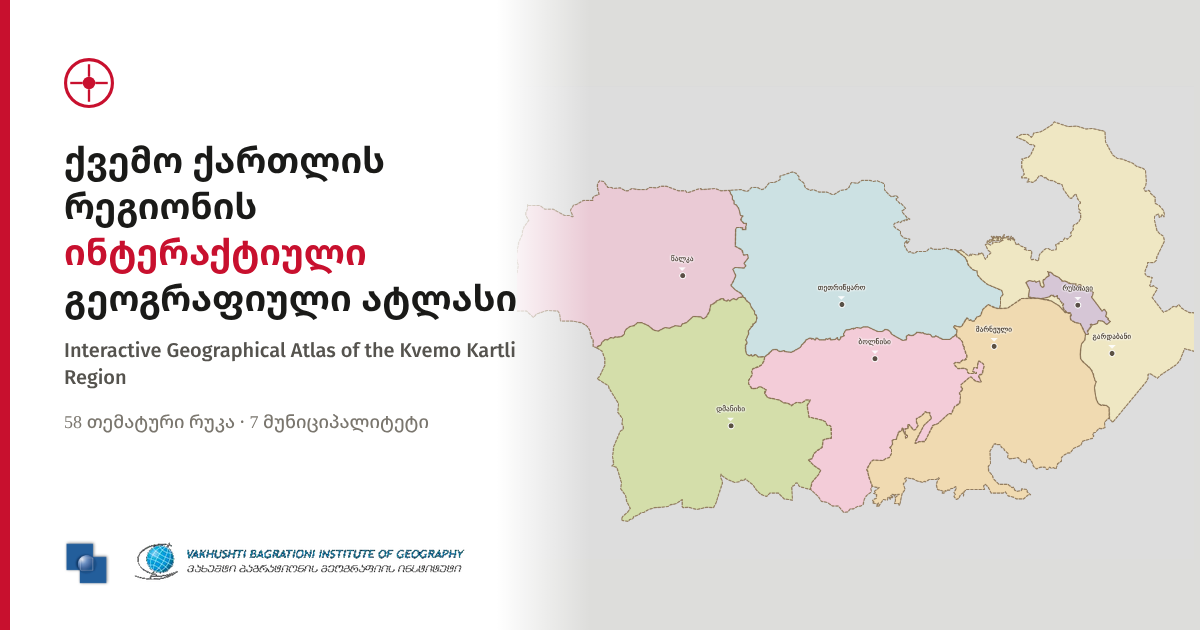
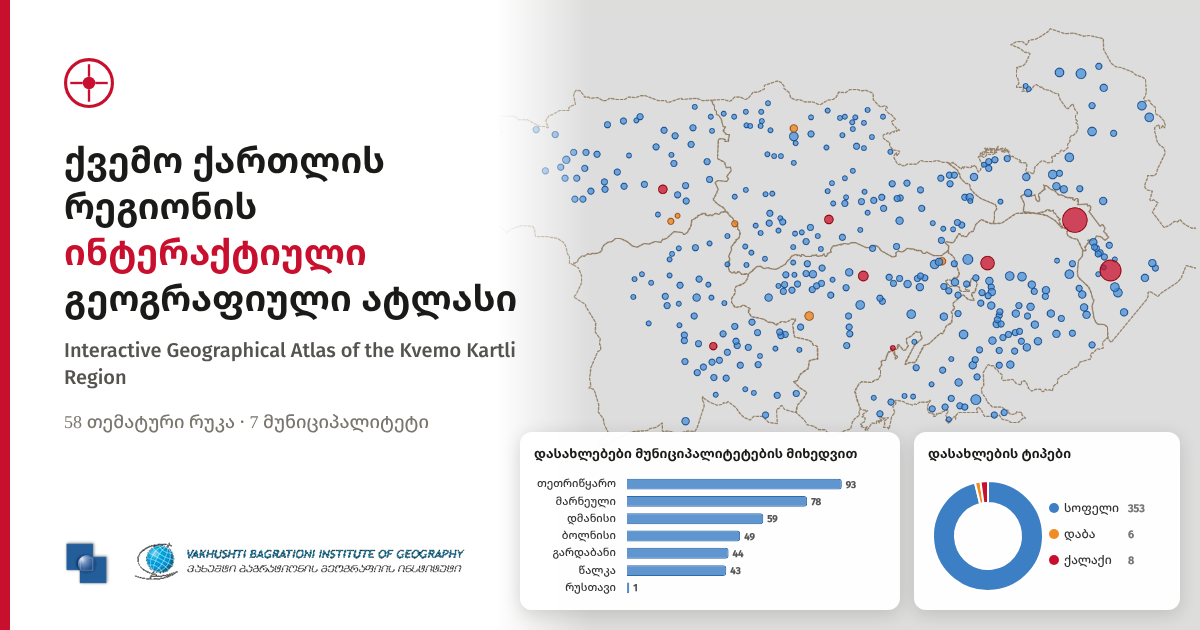
Social preview image: population map with settlement charts
Background is now the population (settlements) map; two small charts:
settlements by municipality and settlement types (villages, towns,
cities), from data/settlements.geojson.

Claude-Session: https://claude.ai/code/session_018LwEbQxNiVLn4ERf6CMPU8

diff --git a/index.html b/index.html
@@ -19,7 +19,7 @@
   <meta property="og:image" content="https://romakumla.github.io/kvemo-kartli-atlas/files/og-image.png" />
   <meta property="og:image:width" content="1200" />
   <meta property="og:image:height" content="630" />
-  <meta property="og:image:alt" content="ქვემო ქართლის მუნიციპალიტეტების რუკა და ატლასის სათაური" />
+  <meta property="og:image:alt" content="ქვემო ქართლის დასახლებების რუკა, დიაგრამები და ატლასის სათაური" />
   <meta property="og:locale" content="ka_GE" />
   <meta name="twitter:card" content="summary_large_image" />
   <meta name="twitter:title" content="ქვემო ქართლის რეგიონის ინტერაქტიული გეოგრაფიული ატლასი" />
